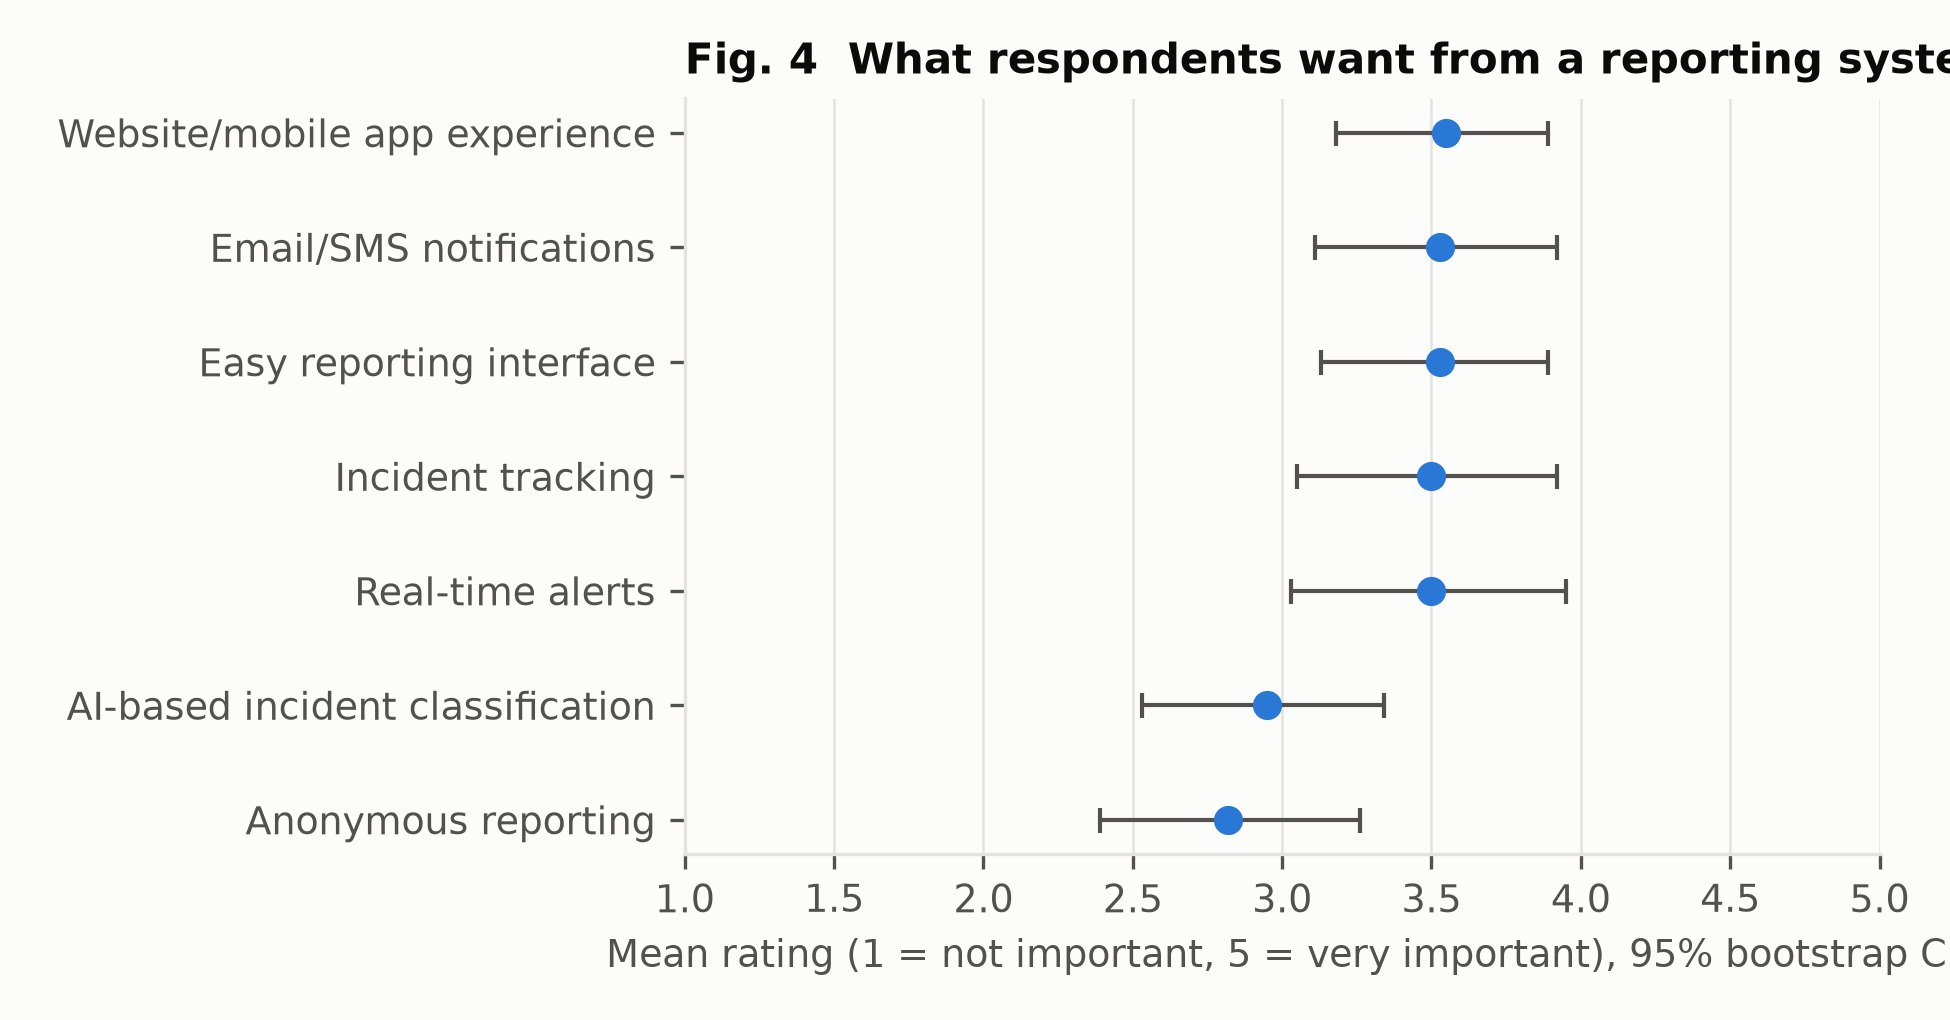
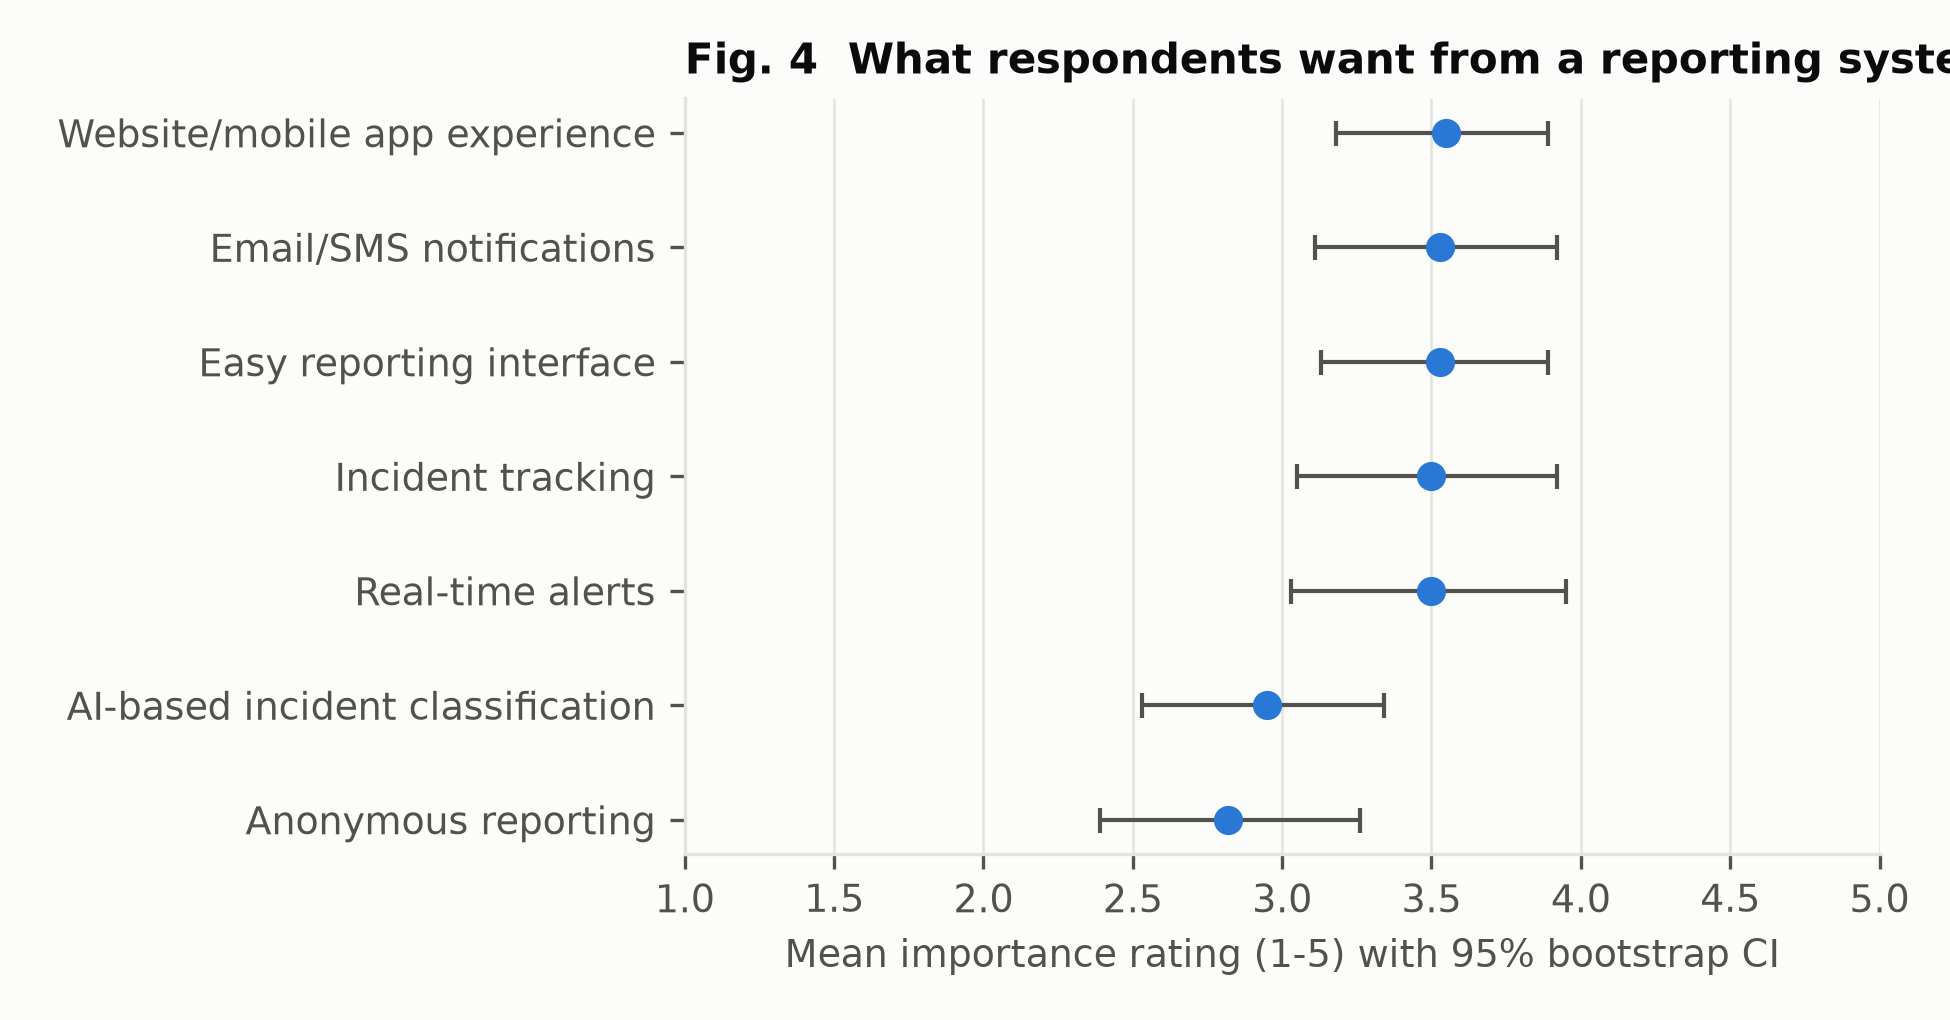
Shorten axis label on feature ratings figure

Changed region(s): [[0.3077, 0.9118, 1.0, 0.9725]]

diff --git a/experiment/descriptives.py b/experiment/descriptives.py
@@ -199,7 +199,7 @@ def figures(vic, at, ct_pct, ct, rs, rat, pl):
     ax.errorbar(rat["mean"], y, xerr=[rat["mean"] - rat.ci_low, rat.ci_high - rat["mean"]], fmt="o",
                 color=SERIES[0], ecolor=INK2, elinewidth=1, capsize=3, markersize=6)
     ax.set_yticks(y); ax.set_yticklabels(rat.feature); ax.set_xlim(1, 5)
-    ax.set_xlabel("Mean rating (1 = not important, 5 = very important), 95% bootstrap CI")
+    ax.set_xlabel("Mean importance rating (1-5) with 95% bootstrap CI")
     ax.grid(axis="y", visible=False)
     ax.set_title("Fig. 4  What respondents want from a reporting system"); save(fig, "fig04_feature_ratings")
 

diff --git a/results/RESULTS.md b/results/RESULTS.md
@@ -1,6 +1,6 @@
 # Experiment results
 
-Generated 2026-11-05 by `python run_all.py` (steps re-run individually with --only are merged in) (seed 42, 2000 bootstraps, 3-fold x 20 repeated CV). Every number below comes from `results/tables/`; figures are in `results/figures/`.
+Generated 2026-11-05 by `python run_all.py` (steps re-run individually with --only are merged in) (seed 42, CatBoost on CPU, 2000 bootstraps, 3-fold x 20 repeated CV). Every number below comes from `results/tables/`; figures are in `results/figures/`.
 
 **Data:** the original 66 survey responses (38 victims). No synthetic respondents are reported. Synthetic rows (SMOTEN) are generated only inside model training folds (Objective 4a) and never appear in any count, table, AHP-TOPSIS score or test fold.
 
